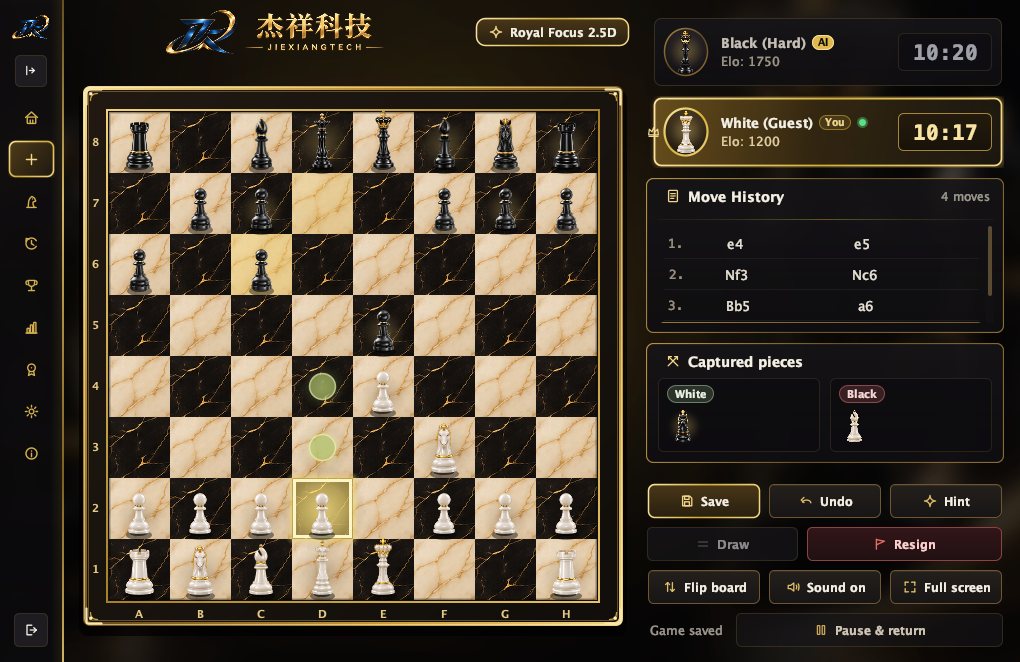
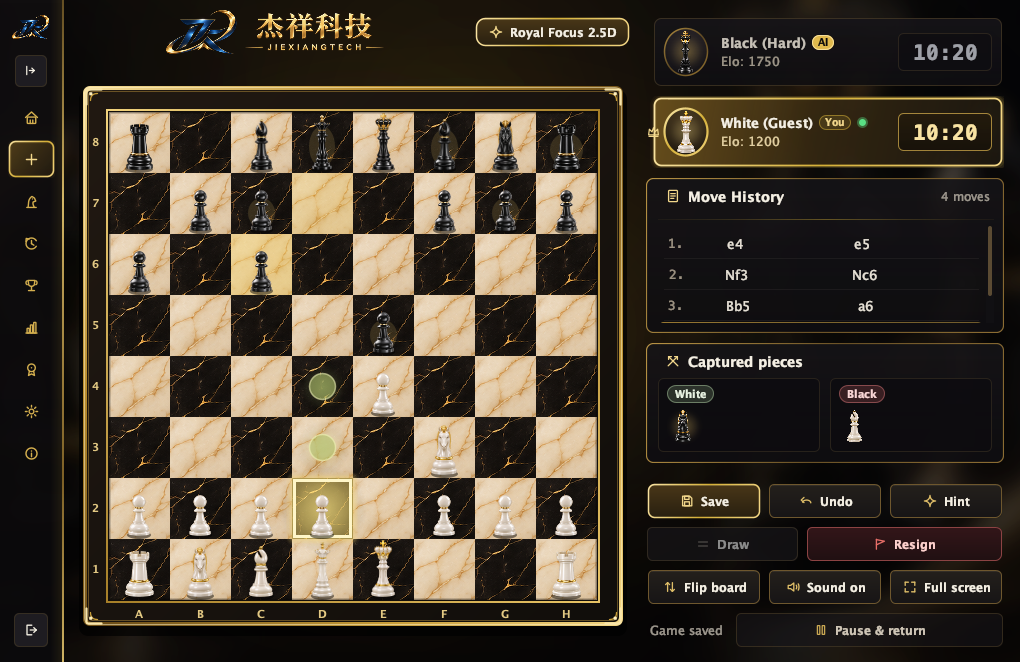
Ground piece pedestals flush onto board tiles and eliminate base shadow gap

diff --git a/chess-desktop/src/main/java/com/jiexiangtech/chess/desktop/ShadowRenderer.java b/chess-desktop/src/main/java/com/jiexiangtech/chess/desktop/ShadowRenderer.java
@@ -30,26 +30,30 @@ final class ShadowRenderer {
         g2.setRenderingHint(RenderingHints.KEY_ANTIALIASING, RenderingHints.VALUE_ANTIALIAS_ON);
 
         double liftFactor = Math.max(0.0, Math.min(1.0, liftPixels / Math.max(12.0, tileWidth)));
+        // The 3D piece sprite pedestal has a curved bottom rim (the widest base equator sits ~4.5% of pieceWidth
+        // above the lowest pixel). Centering the contact shadow on the base plane (anchorY - baseCurveY)
+        // eliminates the visual gap that otherwise makes grounded pieces look like they are hovering!
+        double basePlaneY = anchorY - pieceWidth * 0.052 + liftPixels * 0.14;
 
         // Directional cast shadow along the tabletop plane (top-center warm studio light -> slight rear/side falloff)
         if (directional) {
-            double castW = pieceWidth * (0.95 + 0.15 * liftFactor);
-            double castH = tileWidth * (0.28 + 0.08 * liftFactor);
+            double castW = pieceWidth * (0.94 + 0.15 * liftFactor);
+            double castH = tileWidth * (0.20 + 0.07 * liftFactor);
             AffineTransform old = g2.getTransform();
-            g2.translate(anchorX + tileWidth * 0.14 + liftPixels * 0.22, anchorY + tileWidth * 0.04 + liftPixels * 0.10);
-            g2.rotate(0.14);
-            g2.setColor(new Color(0, 0, 0, Math.round((float) (62 * (1.0 - 0.35 * liftFactor)))));
-            g2.fill(new Ellipse2D.Double(-castW * 0.45, -castH * 0.48, castW, castH));
+            g2.translate(anchorX + tileWidth * 0.11 + liftPixels * 0.22, basePlaneY + liftPixels * 0.08);
+            g2.rotate(0.11);
+            g2.setColor(new Color(0, 0, 0, Math.round((float) (58 * (1.0 - 0.35 * liftFactor)))));
+            g2.fill(new Ellipse2D.Double(-castW * 0.46, -castH * 0.50, castW, castH));
             g2.setTransform(old);
         }
 
-        // Tight grounded contact shadow directly beneath piece base
-        double sw = pieceWidth * (0.98 + 0.12 * liftFactor);
-        double sh = Math.max(4.0, tileWidth * (0.22 + 0.06 * liftFactor));
-        g2.setColor(new Color(0, 0, 0, Math.round((float) (115 * (1.0 - 0.30 * liftFactor)))));
-        g2.fill(new Ellipse2D.Double(anchorX - sw * 0.52, anchorY - sh * 0.46, sw * 1.04, sh));
-        g2.setColor(new Color(0, 0, 0, Math.round((float) (165 * (1.0 - 0.40 * liftFactor)))));
-        g2.fill(new Ellipse2D.Double(anchorX - sw * 0.39, anchorY - sh * 0.34, sw * 0.78, sh * 0.68));
+        // Tight grounded contact shadow directly hugging the piece's lower pedestal rim
+        double sw = pieceWidth * (0.98 + 0.10 * liftFactor);
+        double sh = Math.max(3.5, tileWidth * (0.165 + 0.05 * liftFactor));
+        g2.setColor(new Color(0, 0, 0, Math.round((float) (130 * (1.0 - 0.30 * liftFactor)))));
+        g2.fill(new Ellipse2D.Double(anchorX - sw * 0.51, basePlaneY - sh * 0.56, sw * 1.02, sh));
+        g2.setColor(new Color(0, 0, 0, Math.round((float) (185 * (1.0 - 0.40 * liftFactor)))));
+        g2.fill(new Ellipse2D.Double(anchorX - sw * 0.42, basePlaneY - sh * 0.42, sw * 0.84, sh * 0.68));
         g2.dispose();
     }
 }

diff --git a/chess-desktop/src/main/java/com/jiexiangtech/chess/desktop/RoyalPieceRenderer.java b/chess-desktop/src/main/java/com/jiexiangtech/chess/desktop/RoyalPieceRenderer.java
@@ -49,7 +49,7 @@ final class RoyalPieceRenderer {
 
         int dw = Math.max(4, (int) Math.round(srcBounds.width * scale));
         int dh = Math.max(4, (int) Math.round(srcBounds.height * scale));
-        int baseY = tile.y + (int) Math.round(tile.height * 0.915) - (dragged ? Math.max(4, tile.height / 10) : 0);
+        int baseY = tile.y + (int) Math.round(tile.height * 0.945) - (dragged ? Math.max(4, tile.height / 10) : 0);
         int dx = tile.x + (tile.width - dw) / 2;
         int dy = baseY - dh;
 
@@ -59,13 +59,14 @@ final class RoyalPieceRenderer {
         }
 
         int shadowW = Math.max(8, (int) Math.round(dw * (dragged ? 1.08 : 0.98)));
-        int shadowH = Math.max(4, (int) Math.round(tile.height * (dragged ? 0.16 : 0.135)));
+        int shadowH = Math.max(4, (int) Math.round(tile.height * (dragged ? 0.15 : 0.115)));
         int shadowX = tile.x + (tile.width - shadowW) / 2;
-        int shadowY = tile.y + (int) Math.round(tile.height * 0.915) - shadowH / 2 + (dragged ? 3 : 0);
-        g.setColor(new Color(0, 0, 0, dragged ? 78 : 108));
-        g.fillOval(shadowX - 2, shadowY, shadowW + 4, shadowH + 2);
-        g.setColor(new Color(0, 0, 0, dragged ? 90 : 155));
-        g.fillOval(shadowX + shadowW / 10, shadowY + 1, shadowW * 4 / 5, Math.max(2, shadowH * 2 / 3));
+        int basePlaneY = baseY - Math.max(2, (int) Math.round(dw * 0.048));
+        int shadowY = basePlaneY - shadowH / 2 + (dragged ? 4 : 0);
+        g.setColor(new Color(0, 0, 0, dragged ? 78 : 122));
+        g.fillOval(shadowX - 1, shadowY, shadowW + 2, shadowH + 1);
+        g.setColor(new Color(0, 0, 0, dragged ? 90 : 175));
+        g.fillOval(shadowX + shadowW / 12, shadowY + 1, shadowW * 5 / 6, Math.max(2, shadowH * 2 / 3));
 
         if (source == null) {
             g.setColor(piece.side() == Side.WHITE ? RoyalStyle.IVORY : new Color(0x201913));
@@ -105,15 +106,6 @@ final class RoyalPieceRenderer {
 
         if (shadows != null) {
             shadows.paintPieceShadow(g, anchorX, anchorY, dw, localTileWidth, liftPixels, directionalShadow);
-        }
-
-        // Fast lightweight contrast halos (single alpha oval instead of RadialGradientPaint allocation)
-        if (piece.side() == Side.BLACK && onDarkSquare && liftPixels < 2.0) {
-            g.setColor(new Color(235, 196, 102, 40));
-            g.fillOval(dx - 4, dy + dh / 5, dw + 8, dh * 3 / 4);
-        } else if (piece.side() == Side.WHITE && liftPixels < 2.0) {
-            g.setColor(new Color(246, 204, 98, 26));
-            g.fillOval(dx - 2, (int) Math.round(anchorY - localTileWidth * 0.14), dw + 4, (int) Math.round(localTileWidth * 0.28));
         }
 
         if (source == null) {

diff --git a/chess-desktop/src/main/java/com/jiexiangtech/chess/desktop/PerspectiveCoordinateMapper.java b/chess-desktop/src/main/java/com/jiexiangtech/chess/desktop/PerspectiveCoordinateMapper.java
@@ -97,7 +97,13 @@ final class PerspectiveCoordinateMapper {
     int visualRow(int square) { return flipped ? Square.rank(square) : 7 - Square.rank(square); }
 
     double centerU(int square) { return (visualCol(square) + 0.5) / 8.0; }
-    double anchorV(int square) { return (visualRow(square) + 0.71) / 8.0; }
+    double anchorV(int square) {
+        int row = visualRow(square);
+        // Perspective-corrected footprint grounding: far-rank tiles are more foreshortened vertically
+        // while front-rank tiles sit deep toward the front edge so no rank appears floating above its tile.
+        double offset = 0.80 + 0.08 * (row / 7.0);
+        return (row + offset) / 8.0;
+    }
 
     Point2D.Double squareAnchor(int square) {
         return projection.project(centerU(square), anchorV(square));
